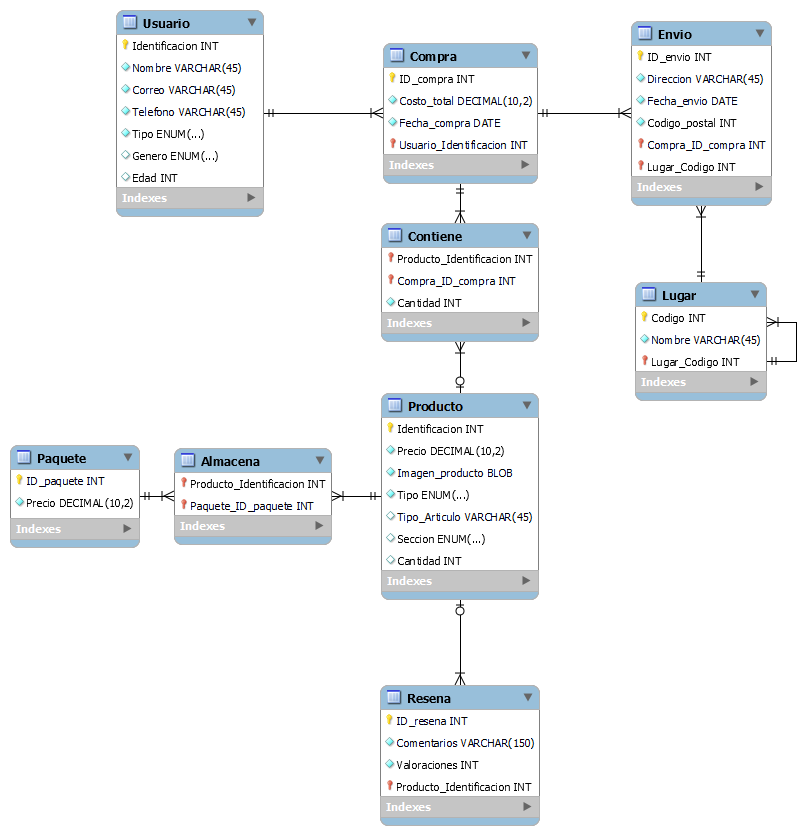
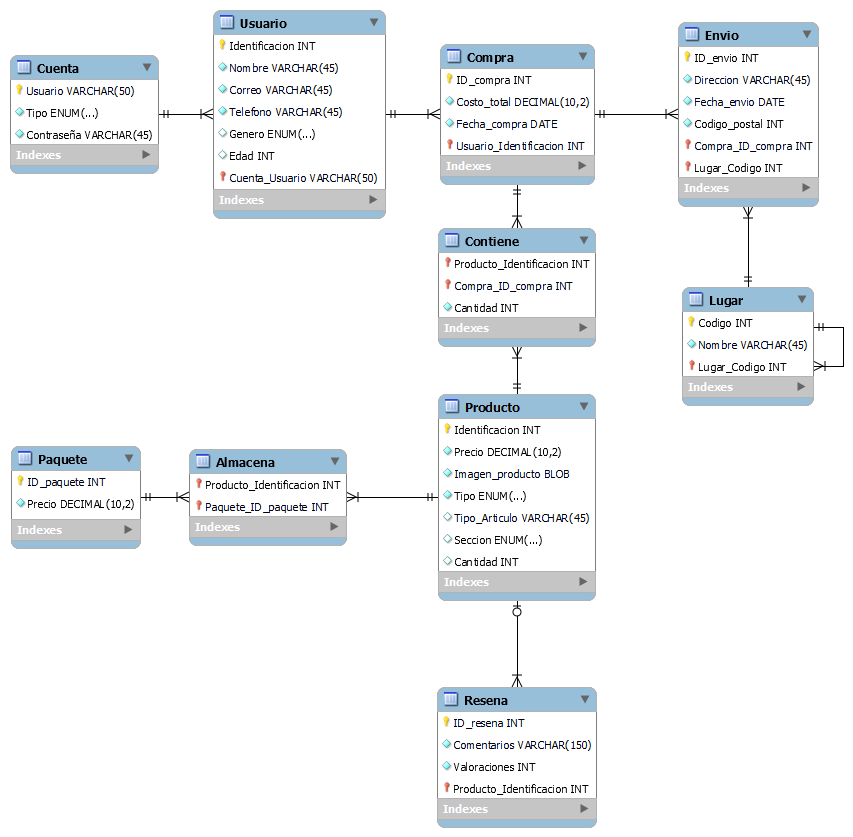
Correction MR and MER

diff --git a/README.md b/README.md
@@ -59,10 +59,12 @@ Este repositorio contiene el diseño del backend, centrado primordialmente en la
 
 ![MR-diagrama-png](https://github.com/DCajiao/sportswear_store/blob/main/images/MR.png?raw=true)
 
+- [Diagrama Completo](https://drive.google.com/file/d/18cunQ3gYTccL-rEyEJTIVkVz7Fbsw2J3/view?usp=sharing)
+
 - Observacion: Debido a varios inconvenientes con el MySQL Workbench, a la hora de exportar las imágenes no se logra apreciar muy bien el dominio de las columnas, pero sí en el script. Por ende, se clarificarán a continuación:
     | Tabla    | Columna  | Dominio                           |
     |----------|----------|-----------------------------------|
-    | Usuario  | Tipo     | 'Cliente', 'Administrador'        |
+    | Cuenta   | Tipo     | 'Cliente', 'Administrador'        |
     | Usuario  | Genero   | 'Hombre', 'Mujer'                 |
     | Producto | Tipo     | 'Articulo', 'Diseño'              |
     | Producto | Seccion  | 'Hombre', 'Mujer', 'Niño'         |
